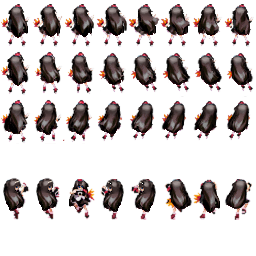
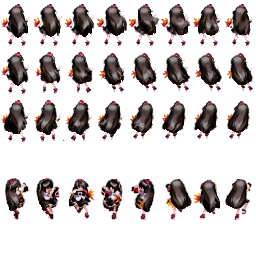
fixing my laziness on these sprites

Changed region(s): [[0.4062, 0.6875, 0.625, 0.875], [0.1562, 0.6875, 0.25, 0.875], [0.0, 0.6875, 0.125, 0.875]]

diff --git a/LetoilePlayerReskin/files.js b/LetoilePlayerReskin/files.js
@@ -65,7 +65,7 @@
 	"th09/Youmu.png": 1755439480,
 	"th09/Yuuka.png": 378923992,
 	"th095/Aya.png": 3605367394,
-	"th095/data/player00/pl10.png": 2919594793,
+	"th095/data/player00/pl10.png": 3319160362,
 	"th10/MarisaA.png": 2316826633,
 	"th10/MarisaB.png": 3221406240,
 	"th10/MarisaC.png": 3316412471,
@@ -115,8 +115,8 @@
 	"th12/title/weapon_ex02b.png": 1759103657,
 	"th125/Aya.png": 2319266853,
 	"th125/Hatate.png": 2572200702,
-	"th125/player/pl01.png": 673553511,
-	"th125/player/pl10.png": 2919594793,
+	"th125/player/pl01.png": 2629536056,
+	"th125/player/pl10.png": 3319160362,
 	"th128/Cirno.png": 1734625705,
 	"th128/player/pl00/pl00.png": 2372792706,
 	"th128/player/pl00/pl01.png": 1094746123,
